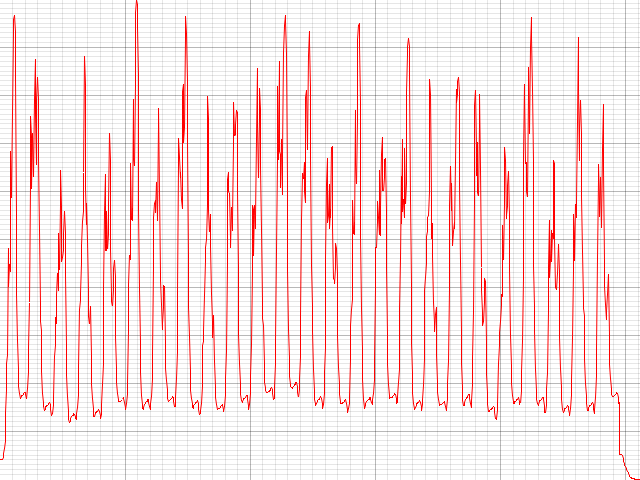
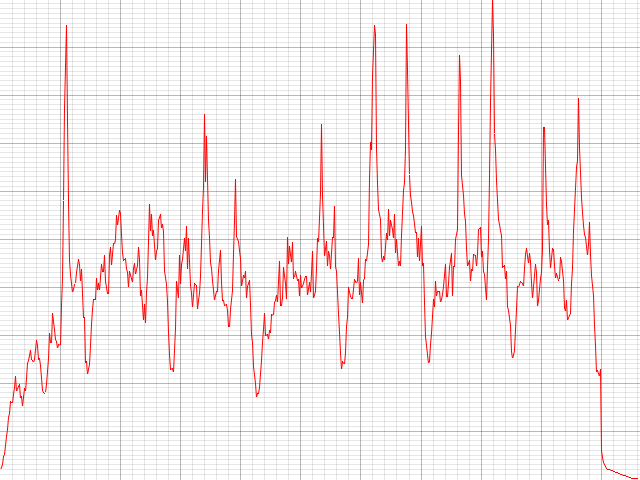
Enabled computation of F-Measure from the onset output results

Changed region(s): [[0.0, 0.0, 1.0, 1.0]]

diff --git a/music_not_found/src/main.rs b/music_not_found/src/main.rs
@@ -3,9 +3,11 @@ extern crate core;
 use std::env;
 use std::io::{BufRead, BufReader};
 use std::path::Path;
+use std::fs::File;
+
 
 use ansi_term::Style;
-use clap::{crate_authors, crate_description, crate_version, Arg, ArgGroup, Command};
+use clap::{Arg, ArgGroup, Command, crate_authors, crate_description, crate_version};
 
 use onset_algo::{HighFrequencyContent, OnsetAlgorithm, OnsetInput};
 use statistics::{convolve1D, normalize, vec_mult};
@@ -18,7 +20,7 @@ mod plot;
 mod statistics;
 mod track;
 
-static N_ONSET: usize = 2048;
+static N_ONSET: usize = 4096;
 static M_ONSET_SIGNAL_ENVELOPE: usize = 10;
 
 /// Accuracy in seconds of the estimated onsets
@@ -38,7 +40,7 @@ fn main() {
         Style::new().bold().strikethrough().paint("not").to_string(),
         Style::new().bold().paint(" found").to_string(),
     ]
-    .join("");
+        .join("");
 
     let arg_matches = Command::new(fancy_name)
         .about(crate_description!())
@@ -79,6 +81,8 @@ fn main() {
 
 fn process_file(file_path: &Path) {
     let track = Track::from_path(file_path);
+    let sample_rate = track.header.sample_rate;
+
     let onset_input = OnsetInput::from_track(track);
     let high_frequency = HighFrequencyContent::find_onsets(&onset_input);
     let spectral_difference = SpectralDifference::find_onsets(&onset_input);
@@ -88,11 +92,11 @@ fn process_file(file_path: &Path) {
 
     let kernel_function = |k: &[f32]| {
         let neighborhood: Vec<usize> = (0..28).into_iter().chain((37..65).into_iter()).collect();
-        neighborhood.into_iter().map(|x| k[x] * 0.00815).sum::<f32>() + 
-        (k[28] + k[29] + k[35] + k[36]) * 0.03 + (k[30] + k[31] + k[33] + k[34]) * 0.05 + k[32] * 0.16
+        neighborhood.into_iter().map(|x| k[x] * 0.00815).sum::<f32>() +
+            (k[28] + k[29] + k[35] + k[36]) * 0.03 + (k[30] + k[31] + k[33] + k[34]) * 0.05 + k[32] * 0.16
     };
 
-    let output = normalize(&vec_mult(
+    let output: Vec<f32> = normalize(&vec_mult(
         &vec![
             &convolve1D(&high_frequency.result, 65, kernel_function)[..],
             &convolve1D(&spectral_difference.result, 65, kernel_function)[..],
@@ -101,88 +105,58 @@ fn process_file(file_path: &Path) {
 
     plot::plot(&output, "output.png");
 
-    // let input_file = File::open(&file_path).unwrap();
-    // let (header, samples) = wav_io::read_from_file(input_file).unwrap();
-    // println!("header={:?}", header);
-    // println!("Sample rate: {} Hz", header.sample_rate);
-    // print the first 32 values of the sample for testing
-    /*  for (i, v) in samples.iter().enumerate() {
-        println!("{}: {}v", i, v);
-        if i > 32 {
-            break;
-        }
-    }*/
-    // println!("Sample Länge: {}", samples.len());
+    // Compute f measure for our different results:
+    println!("{}", Style::new().bold().paint("Convolved Output").to_string());
+    f_measure_onsets( &get_onset_times(&output, high_frequency.fft_window_size, sample_rate),file_path);
+    println!();
 
-    // let mut cur_pos: usize = 0;
-    // while cur_pos + N_ONSET < samples.len() {
-    //     /* FFT realisation based on https://github.com/ejmahler/RustFFT/blob/master/UpgradeGuide4to5.md */
-    //     let mut fft_buffer: Vec<Complex<f32>> = samples[cur_pos..cur_pos + N_ONSET].iter().map(|&value| Complex::new(value, 0f32)).into_iter().collect::<Vec<_>>();
-    //     let mut planner = FftPlanner::new();
-    //     let fft = planner.plan_fft_forward(N_ONSET);
-    //     // TODO: Fensterung!!!!
-    //     fft.process(&mut fft_buffer);
-    //     cur_pos += (N_ONSET / 2); // TODO: evtl. nicht um /2 sonden um ganzen N_ONSET verschieben
-    // }
-    // let mut fft_buffer: Vec<Complex<f32>> = samples[cur_pos..samples.len()].iter().map(|&value| Complex::new(value, 0f32)).into_iter().collect::<Vec<_>>();
-    // let mut planner = FftPlanner::new();
-    // let fft = planner.plan_fft_forward(samples.len() - cur_pos);
-    // fft.process(&mut fft_buffer); // fft_buffer contains the transformed part of the signal...
+    println!("{}", Style::new().bold().paint("High Frequency").to_string());
+    f_measure_onsets( &get_onset_times(&high_frequency.result, high_frequency.fft_window_size, sample_rate),file_path);
+    println!();
 
-    // // print the first 32 values of the sample for testing
-    // for (i, v) in samples.iter().enumerate() {
-    //     println!("{}: {}v", i, v);
-    //     if i > 32 {
-    //         break;
-    //     }
-    // }
-    // println!("Sample Länge: {}", samples.len());
+    println!("{}", Style::new().bold().paint("Spectral Difference Output").to_string());
+    f_measure_onsets( &get_onset_times(&spectral_difference.result, spectral_difference.fft_window_size, sample_rate),file_path);
 
-    // let mut cur_pos: usize = 0;
-    // while cur_pos + N_ONSET < samples.len() {
-    //     /* FFT realisation based on https://github.com/ejmahler/RustFFT/blob/master/UpgradeGuide4to5.md */
-    //     let mut fft_buffer: Vec<Complex<f32>> = samples[cur_pos..cur_pos + N_ONSET].iter().map(|&value| Complex::new(value, 0f32)).into_iter().collect::<Vec<_>>();
-    //     let mut planner = FftPlanner::new();
-    //     let fft = planner.plan_fft_forward(N_ONSET);
-    //     fft.process(&mut fft_buffer);
-    //     cur_pos += (N_ONSET / 2); // TODO: evtl. nicht um /2 sonden um ganzen N_ONSET verschieben
-    // }
-    // let mut fft_buffer: Vec<Complex<f32>> = samples[cur_pos..samples.len()].iter().map(|&value| Complex::new(value, 0f32)).into_iter().collect::<Vec<_>>();
-    // let mut planner = FftPlanner::new();
-    // let fft = planner.plan_fft_forward(samples.len() - cur_pos);
-    // fft.process(&mut fft_buffer); // fft_buffer contains the transformed part of the signal...
-
-    // // everything run through the fourier transform, but the results are not used yet.
-
-    // // Check if there is an *.onsets.gt file for the wav
-    // let file_string_onsets_gt = [file_path.to_str().unwrap().strip_suffix(".wav").unwrap(), ".onsets.gt"].join("");
-
-    // let mut found_onsets: Vec<f64> = Vec::new();
-
-    // // onset detection should happen here (found onsets seconds have to be pushed to the vector)
-
-    // found_onsets.push(0.2f64);
-
-    // if Path::new(&file_string_onsets_gt).exists() { // if a onsets.gt file in the same folder exists, do a validation!
-    //     println!("Validation of Found onsets");
-    //     let gt_file = File::open(Path::new(&file_string_onsets_gt)).unwrap();
-    //     let reader = BufReader::new(gt_file);
-    // Check if there is an *.onsets.gt file for the wav
-    // let file_string_onsets_gt = [file_path.to_str().unwrap().strip_suffix(".wav").unwrap(), ".onsets.gt"].join("");
-
-    // if Path::new(&file_string_onsets_gt).exists() { // if a onsets.gt file in the same folder exists, do a validation!
-    //     println!("Validation of Found onsets");
-    //     let gt_file = File::open(Path::new(&file_string_onsets_gt)).unwrap();
-    //     let reader = BufReader::new(gt_file);
-
-    //     /// Vector containing the true onset times (in seconds!)
-    //     let gt_onsets: Vec<f64> = reader.lines().map(|line| line.expect("Error on parsing line")).map(|line| line.parse::<f64>().unwrap()).collect();
-
-    //     f_measure_onsets(&found_onsets, &gt_onsets);
-    // }
 }
 
-fn f_measure_onsets(found_onsets: &Vec<f64>, gt_onsets: &Vec<f64>) {
+fn get_onset_times(output: &Vec<f32>, window_size: usize, sample_rate: u32) ->Vec<f64> {
+    // Compute times of peaks
+    let peaks: Vec<bool> = (0..output.len())
+        .into_iter()
+        .map(|i| {
+            return if (i > 0 && i < output.len() - 1) /* checks if index is at border */
+                && (output[i - 1] <output[i] && output[i] > output[i + 1] ) /* checks if a peak */ {
+                true
+            } else {
+                false
+            };
+        })
+        .collect::<Vec<bool>>();
+
+    let mut onset_times: Vec<f64> = Vec::new();
+
+    for i in 0..peaks.len() {
+        if peaks[i] {
+            onset_times.push(i as f64 * ((window_size as f64) / (sample_rate as f64)));
+        }
+    }
+    return onset_times;
+}
+
+fn f_measure_onsets(found_onsets: &Vec<f64>, file_path: &Path) {
+    let file_string_onsets_gt = [file_path.to_str().unwrap().strip_suffix(".wav").unwrap(), ".onsets.gt"].join("");
+
+    if !Path::new(&file_string_onsets_gt).exists() { // if a onsets.gt file in the same folder exists, do a validation!
+    return;
+    }
+    println!("Validation of Found onsets");
+    let gt_file = File::open(Path::new(&file_string_onsets_gt)).unwrap();
+    let reader = BufReader::new(gt_file);
+
+    /// Vector containing the true onset times (in seconds!)
+    let gt_onsets: Vec<f64> = reader.lines().map(|line| line.expect("Error on parsing line")).map(|line| line.parse::<f64>().unwrap()).collect();
+
+
     /// current index in vector of found onsets
     let mut i_found: usize = 0;
     /// current index in vector of gt onsets

diff --git a/music_not_found/src/onset_algo.rs b/music_not_found/src/onset_algo.rs
@@ -9,7 +9,7 @@ use rustfft::{num_complex::Complex, FftPlanner};
 use crate::statistics::{normalize};
 use crate::track::Track;
 
-const WINDOW_SIZE: usize = 1024;
+const WINDOW_SIZE: usize = 2048;
 
 pub struct OnsetInput {
     pub samples: Vec<f32>,
@@ -42,7 +42,7 @@ impl OnsetInput {
                 .map(|&value| Complex::new(value, 0f32))
                 .collect();
             fft.process(&mut fft_buffer_comp);
-            cur_pos += WINDOW_SIZE / 2; // TODO: evtl. nicht um /2 sonden um ganzen N_ONSET verschieben
+            cur_pos += WINDOW_SIZE ; // TODO: evtl. nicht um /2 sonden um ganzen N_ONSET verschieben
             stft.push(fft_buffer_comp);
         }
 
@@ -67,12 +67,14 @@ impl OnsetInput {
 
 pub struct OnsetOutput {
     pub result: Vec<f32>,
+    pub fft_window_size: usize,
 }
 
 impl OnsetOutput {
     fn make_output(result: Vec<f32>) -> OnsetOutput {
         OnsetOutput {
             result: normalize(&result),
+            fft_window_size: WINDOW_SIZE
         }
     }
 }
@@ -87,6 +89,7 @@ impl OnsetAlgorithm for DummyAlgorithm {
     fn find_onsets(input: &OnsetInput) -> OnsetOutput {
         OnsetOutput {
             result: input.samples.to_owned(),
+            fft_window_size: WINDOW_SIZE,
         }
     }
 }
